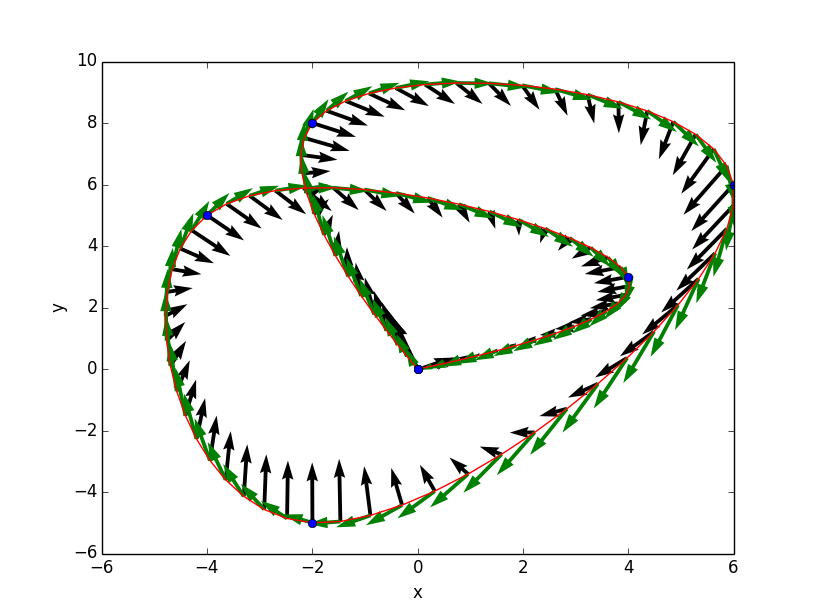
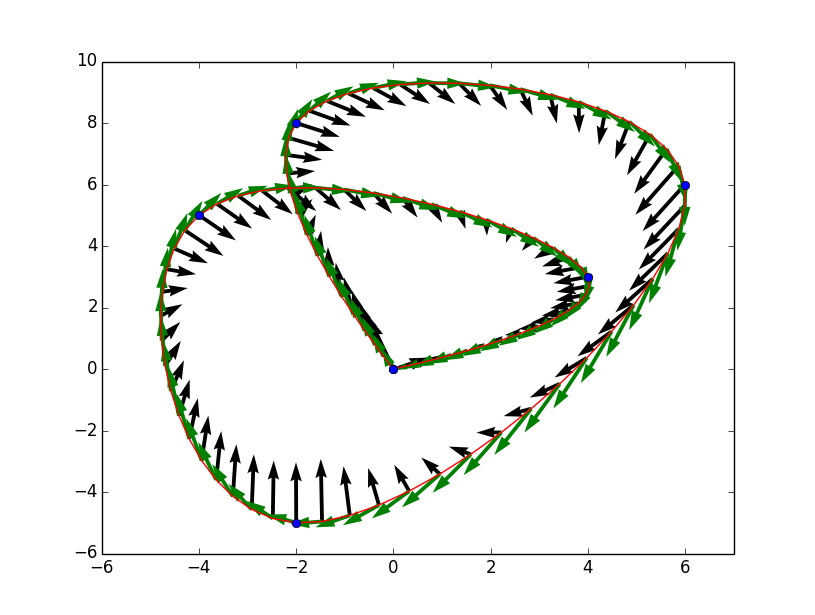
update example code and image

diff --git a/examples/simple_control/simple_control.py b/examples/simple_control/simple_control.py
@@ -6,15 +6,7 @@ import numpy as np
 import matplotlib.pyplot as plt
 
 # Import the way points
-from data import waypoints
-
-# Choose how to discritize time
-T = 200 # The number of timesteps
-h = 0.01 # The time between time intervals
-
-# Other parameters
-mass = 100
-drag = 0.1
+from data import waypoints,T,h,mass,drag
 
 # Declare the variables we need
 position = Variable(2,T)
@@ -26,8 +18,8 @@ constraints = []
 for i in range(T-1):
 	constraints.append(position[:,i+1] == position[:,i] + h * velocity[:,i])
 for i in range(T-1):
-	constraints.append(velocity[:,i+1] == velocity[:,i] + h/mass * force[:,i]) #+ drag * velocity[:,i]
-
+	constraints.append(velocity[:,i+1] == velocity[:,i] + h/mass * force[:,i] - drag*velocity[:,i])
+	
 # Add waypoint constraints
 zero_vector = np.array([[0,0]]).T
 for i in range(6): constraints.append(position[:,T*i//6] == waypoints[:,i:i+1])
@@ -49,6 +41,5 @@ plt.quiver(position.value[0,:],position.value[1,:],
 	velocity.value[0,:],velocity.value[1,:],color='g',headaxislength=5)
 plt.plot(position.value[0,:],position.value[1,:],'r')
 plt.plot(waypoints[0,:],waypoints[1,:],'bo')
-plt.xlabel('x')
-plt.ylabel('y')
+plt.xlim([-6,7])
 plt.show()

diff --git a/examples/simple_control/data.py b/examples/simple_control/data.py
@@ -1,13 +1,17 @@
 import numpy as np
 
-# In this control project, the object must reach these points
-# at the 1/4, 1/2, and 3/4 time marks. It should start from the
-# origin with zero velocity, and end at the origin also with zero
-# velocity.
+# In this control problem, the object starts from the origin and should
+# reach these waypoints at evenly spaced intervals over its trip
 
 # Some way points
 waypoints = np.array([[0,-2,6,-2,-4,4,0],
                       [0, 8,6,-5, 5,3,0]])
+					  
+T = 100 # The number of timesteps
+h = 0.01 # The time between time intervals
+
+mass = 100 # Mass of object
+drag = 0.1 # Drag on object
 
 import sys
 if(sys.argv[0] == 'data.py'):

diff --git a/examples/simple_linreg/simple_quadreg.py b/examples/simple_linreg/simple_quadreg.py
@@ -9,10 +9,9 @@ from lsqpy import Variable,sum_sq,minimize
 from data import x_data,y_data
 
 # Import matplotlib and create the extra variables we need for plotting
-# NumPy imported for matrix manipulation
 import matplotlib.pyplot as plt
 
-# Create a variable
+# Create a variable that holds the coefficients
 a = Variable(3)
 
 # We copy x_data but raise it to different powers
@@ -30,8 +29,8 @@ T = np.hstack([np.power(t,i) for i in range(3)])
 
 # Plot our regressed function
 plt.figure(0,(3,3))
-plt.plot(x_data,y_data,'bo')
-plt.plot(t,T.dot(a.value),'r')
+plt.plot(x_data,y_data,'ro')
+plt.plot(t,T.dot(a.value),'b')
 plt.xlabel('x')
 plt.ylabel('y')
 plt.show()
